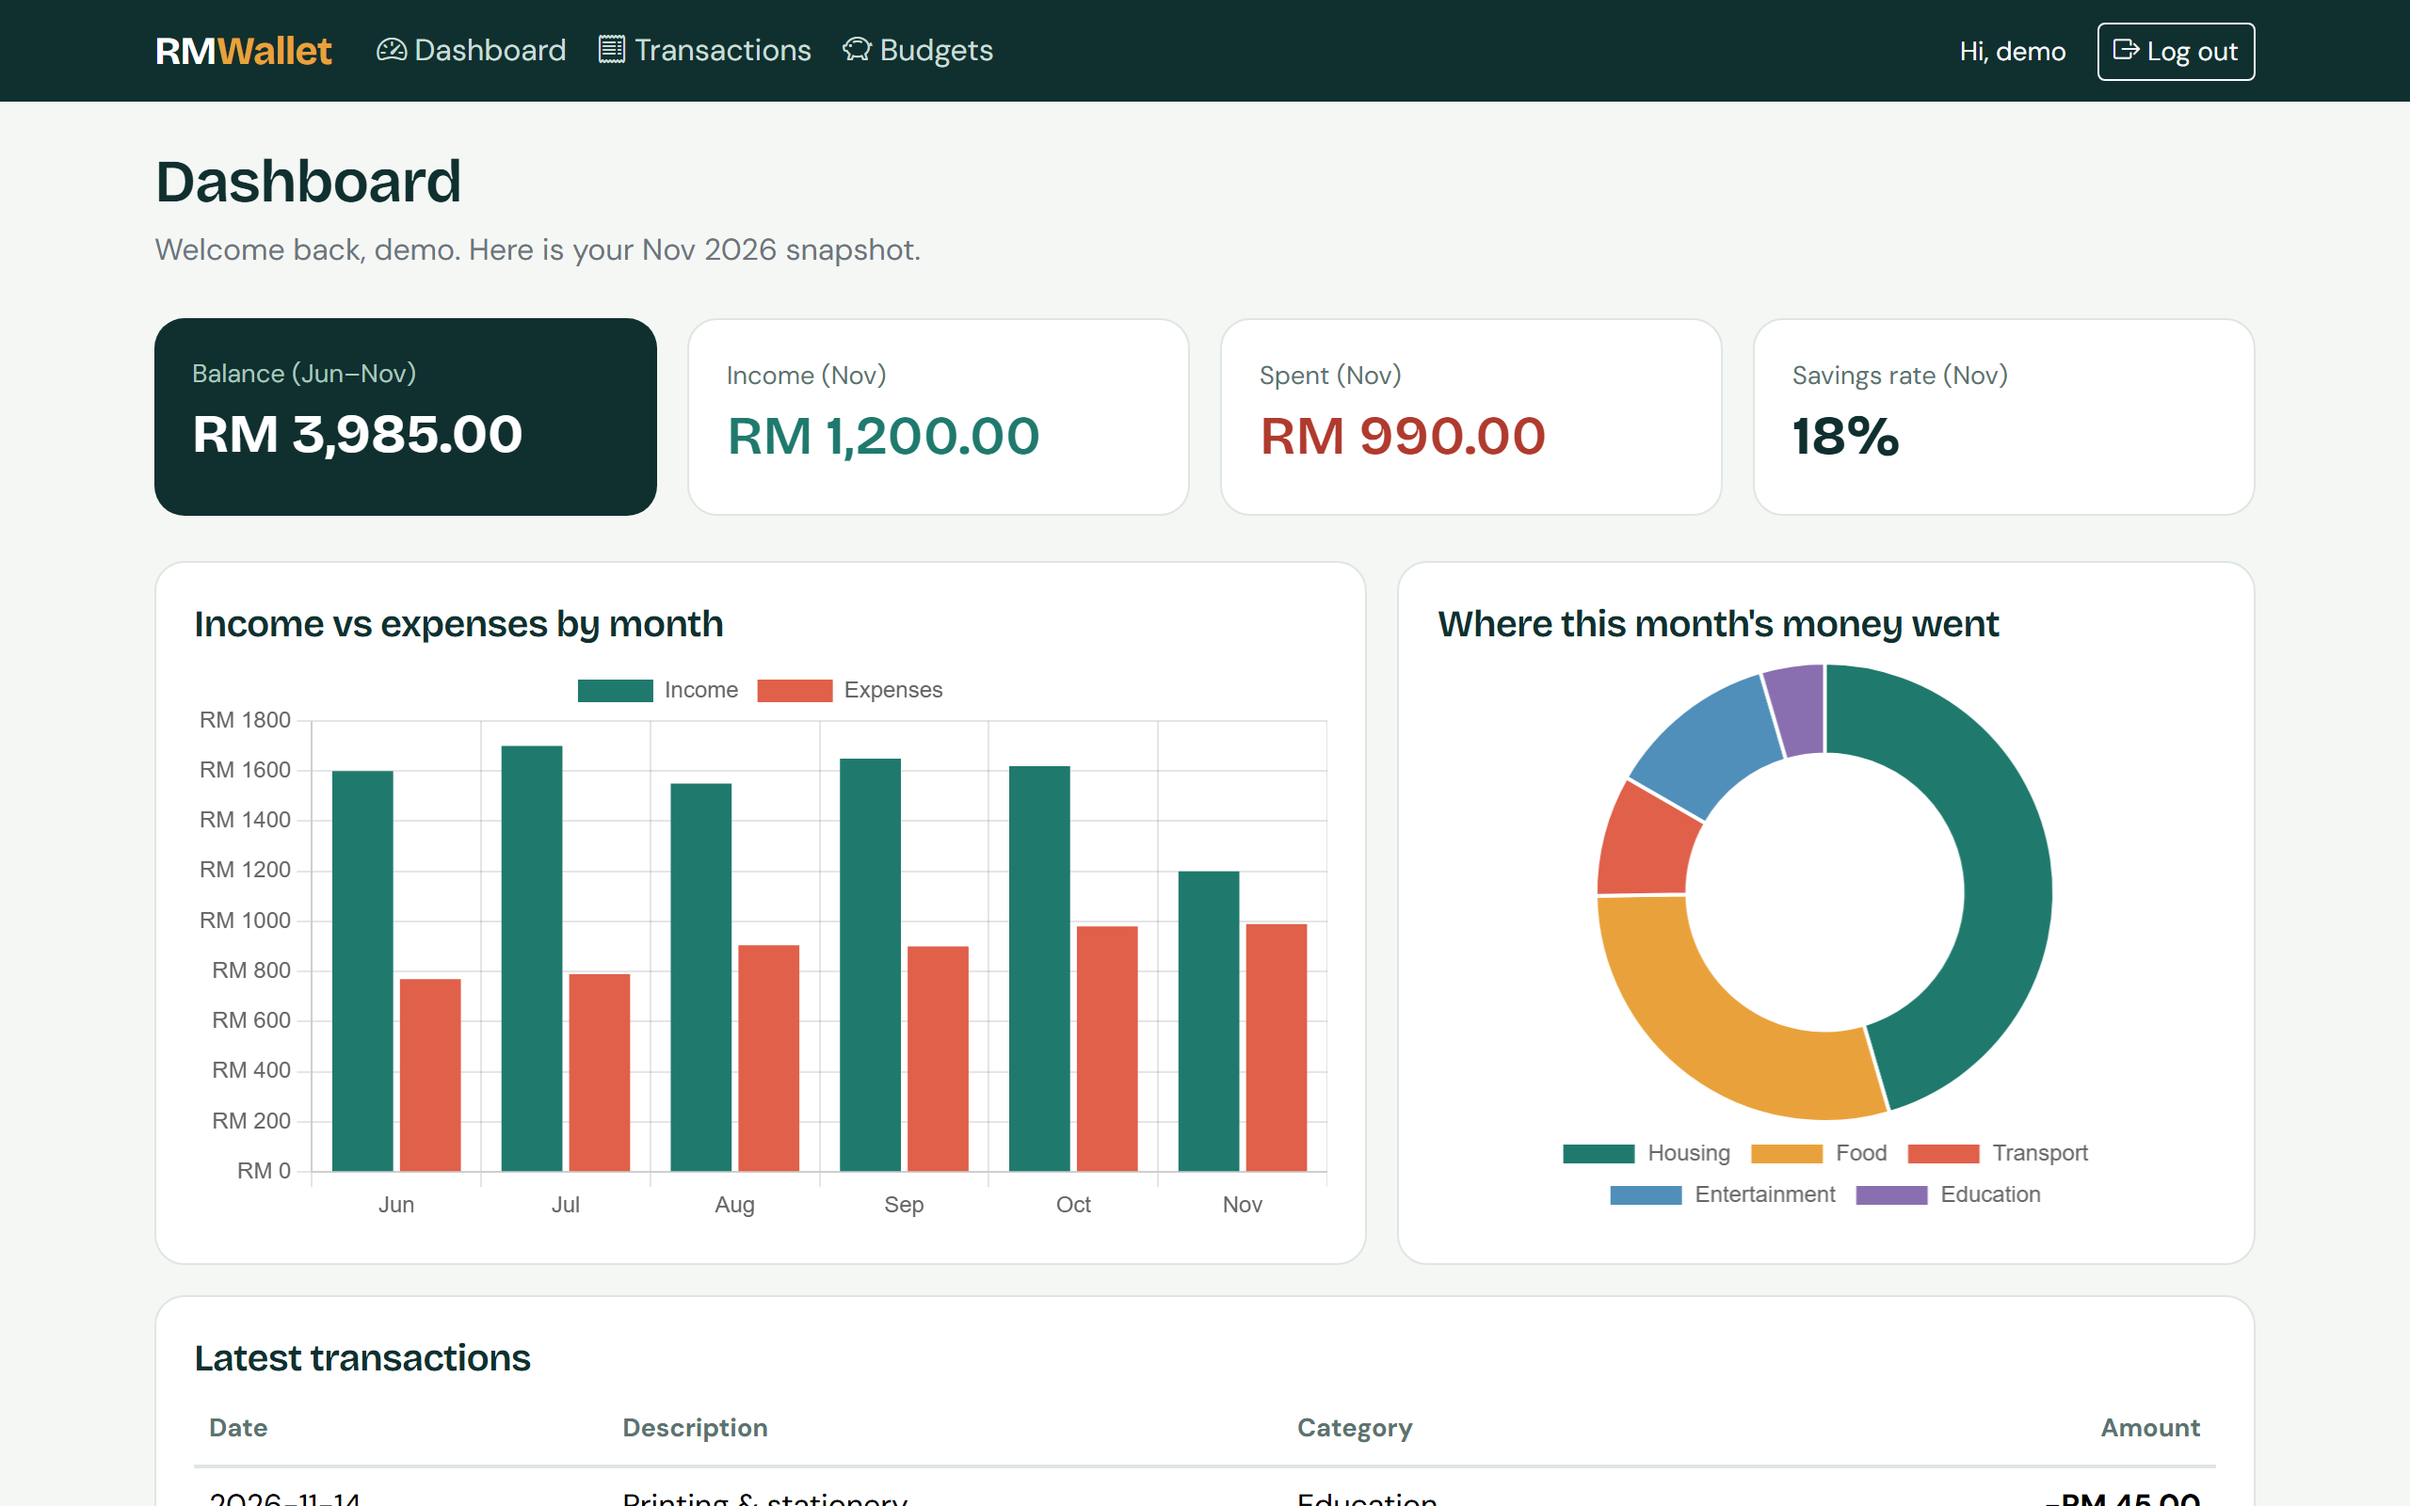
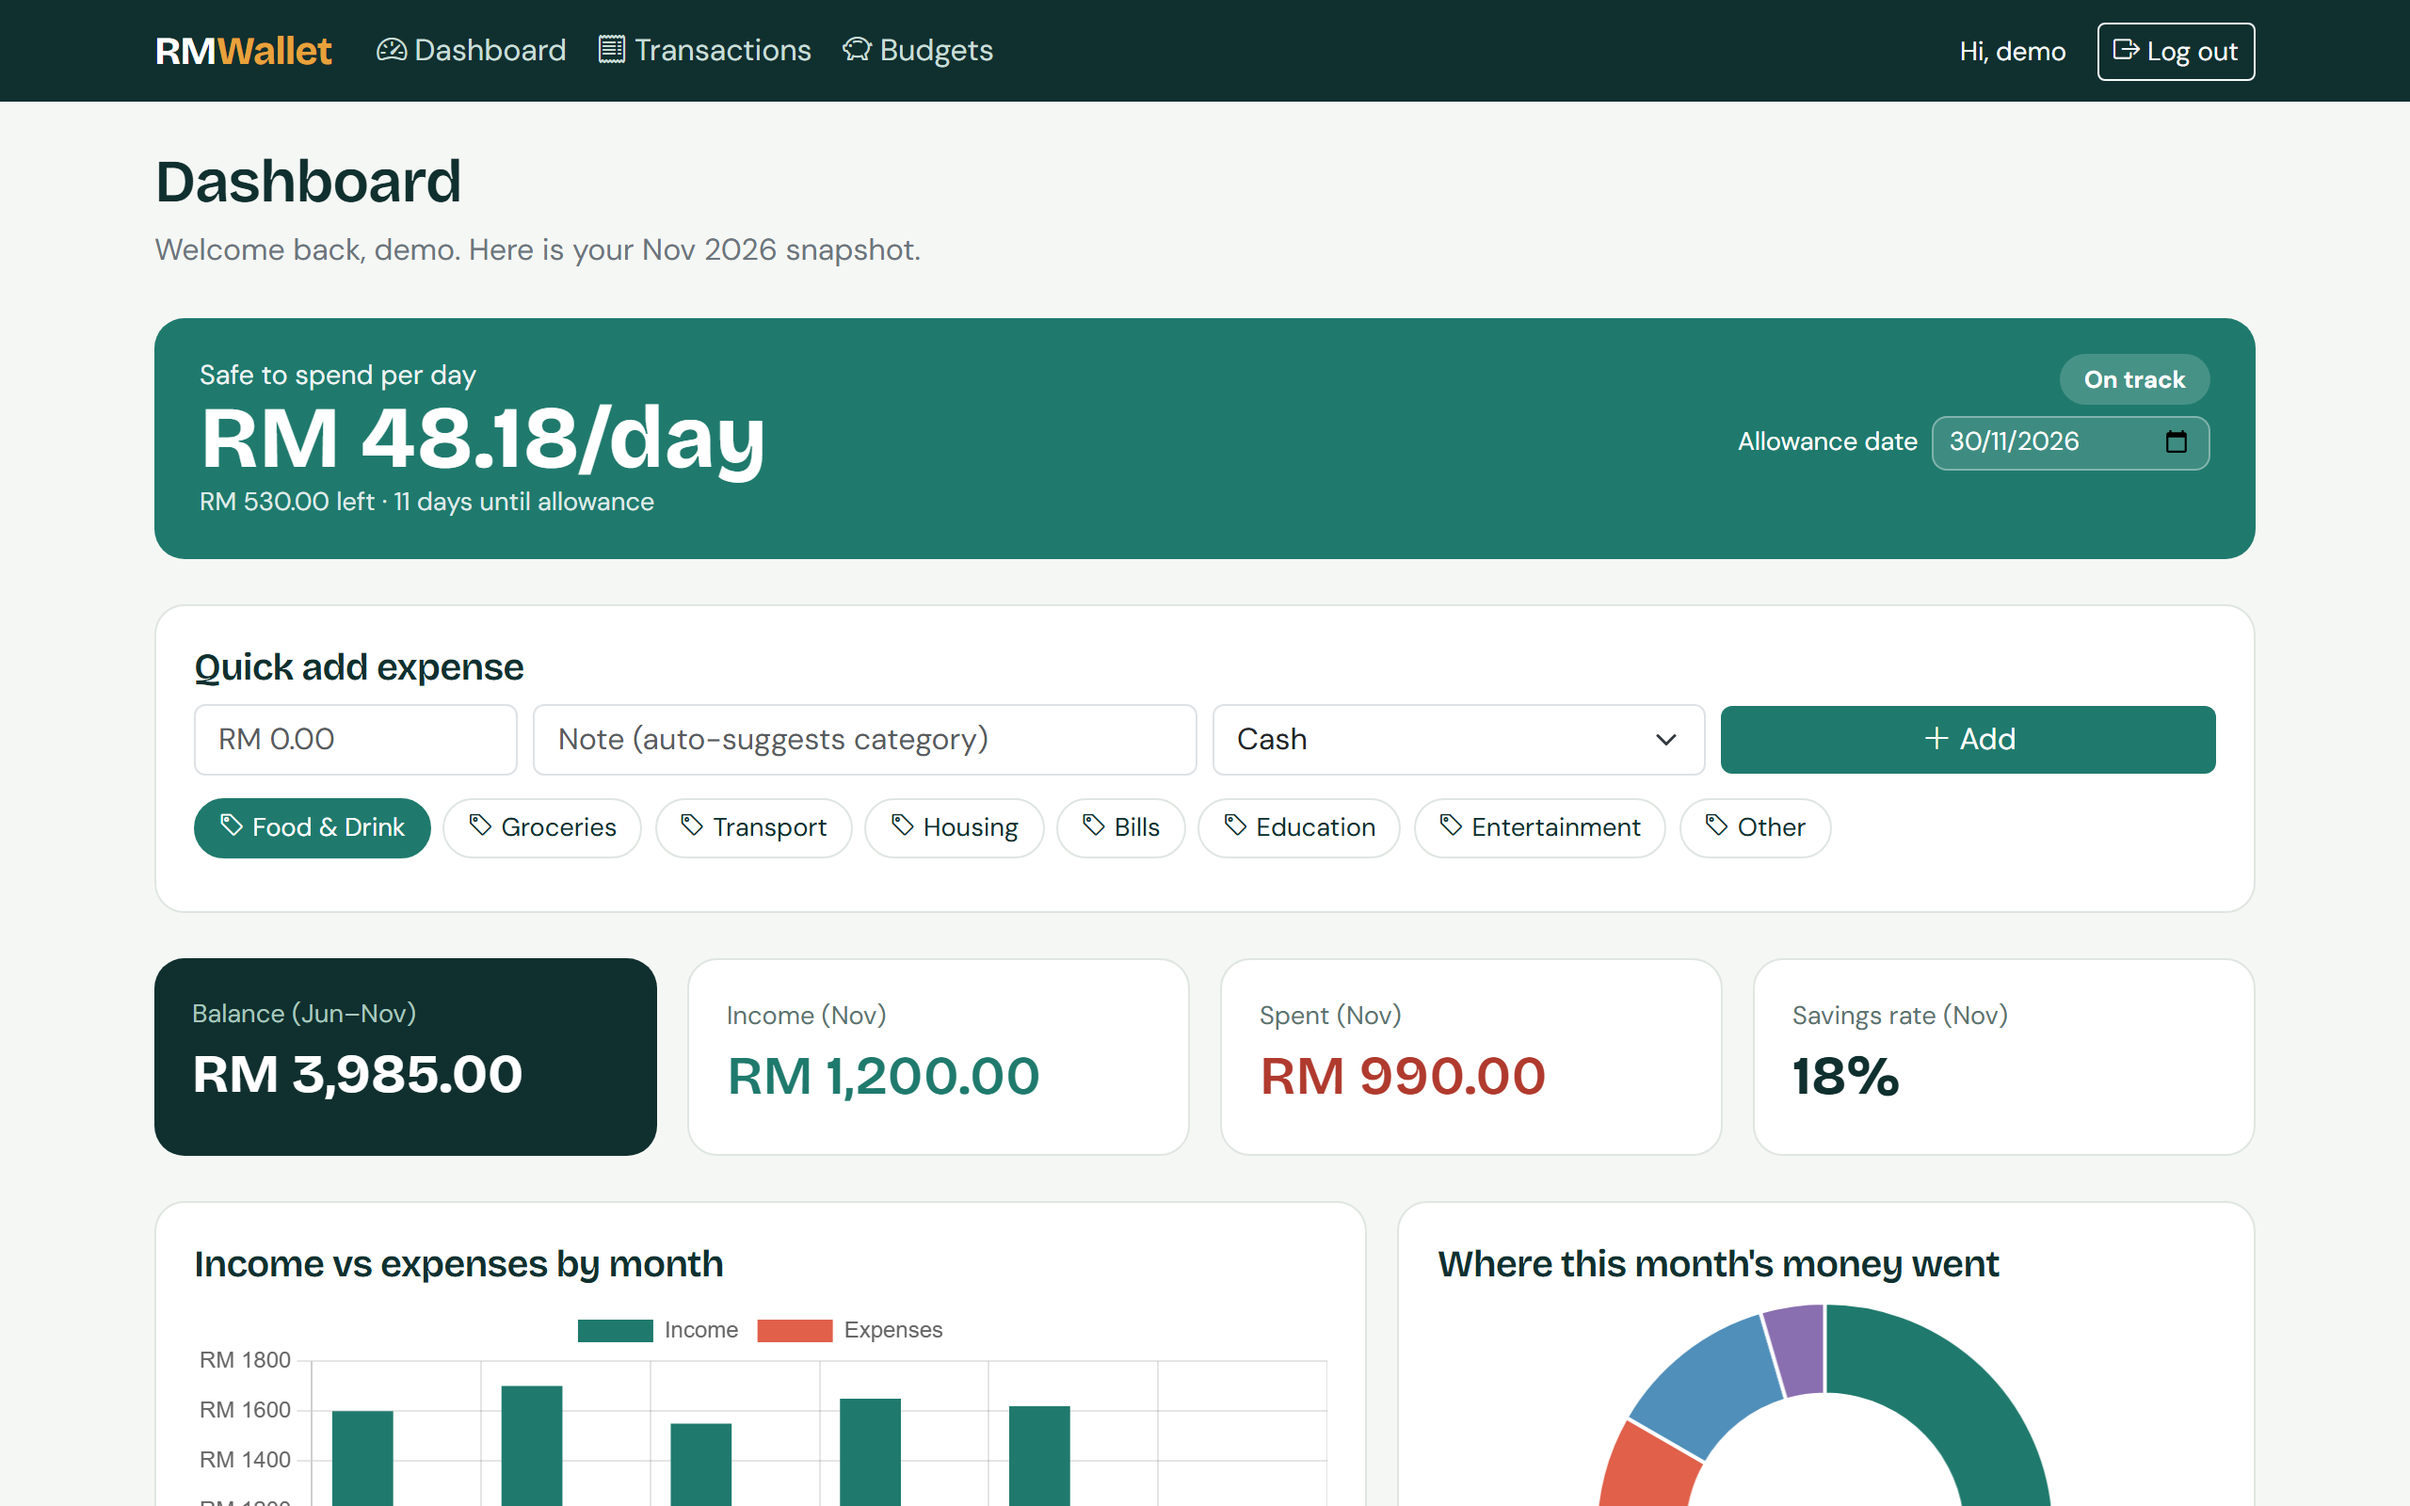
docs: update README, changelog and screenshots for v0.2.0

diff --git a/README.md b/README.md
@@ -14,7 +14,7 @@ A student's money is a small number of ringgit moving between a handful of bucke
 
 - ⚡ **Zero dependencies, zero build.** It's plain HTML, CSS and ES modules. Nothing to install or compile.
 - 📊 **Charts that mean something.** Income vs expenses by month, spending by category, budget vs actual.
-- 💸 **Budgets that warn you.** Progress bars go amber at 80% and red past 100%.
+- 💸 **Budgets that warn you.** Colour-coded guardrails: green under 70%, amber 70–89%, red 90%+.
 - 🔒 **Hardened by default.** Content-Security-Policy, Subresource Integrity, and XSS-safe rendering.
 - 🧪 **Actually tested.** A unit-test suite and static-integrity checks that run in CI.
 
@@ -29,7 +29,7 @@ bun start
 # 2. Open the printed URL in your browser
 #    http://localhost:8080
 
-# 3. Click "Use demo account", then "Sign in"
+# 3. Click "Try Demo Instantly"
 ```
 
 That's it — you're looking at the dashboard in under a minute.
@@ -46,12 +46,16 @@ You can also register a new account — it's stored in your browser's `localStor
 
 ## Features
 
-- **Login / register** with a demo account, validation, and a one-click "Use demo account" shortcut.
-- **Dashboard** — balance, latest-month income/spend/savings rate, income-vs-expense bar chart, spending doughnut, and the five most recent transactions.
-- **Transactions** — search and filter by type and category, newest first.
-- **Budgets** — per-category progress cards, a budget-vs-actual chart, and a table showing what's left (or how far over you are).
-- **Responsive & accessible** — works on mobile, with `aria-live` status, labelled charts, `scope` on table headers, and WCAG-AA colour contrast.
-- **Security basics** — CSP, SRI-pinned CDN assets, HTML output escaping (stored-XSS fix), no inline scripts, and a traversal-guarded dev server.
+- **One-click demo** — "Try Demo Instantly" signs you in with sample data kept only in your browser.
+- **Safe-to-spend hero** — remaining monthly budget divided by days until your allowance date, colour-coded green/amber/red with a customisable reset date.
+- **Quick-add expense bar** — amount, note and payment source with one-tap category chips and keyword auto-suggestion.
+- **Multi-wallet** — tag every transaction by payment source (Cash, Bank/MAE, E-Wallet/TnG) and filter by it.
+- **Tabung (savings goals)** — visual savings jars with progress fills and top-ups.
+- **Budget guardrails** — colour-coded progress bars: green <70%, amber 70–89%, red 90%+.
+- **Backup & portability** — export/import your data as JSON or CSV.
+- **Installable (PWA)** — add RM Wallet to your home screen with a manifest, icons and an offline service worker.
+- **Responsive & accessible** — mobile-first, with `aria-live` status, labelled charts and WCAG-AA contrast.
+- **Security basics** — CSP, SRI-pinned CDN assets, HTML output escaping, and a traversal-guarded dev server.
 
 ## Commands
 
@@ -76,8 +80,13 @@ Or via `make`: `make start`, `make test`, `make check`.
 ├── js/
 │   ├── core.js           pure domain logic (unit-tested, DOM-free)
 │   ├── data.js           sample data (Jun–Nov 2026)
+│   ├── store.js          localStorage persistence layer
 │   ├── app.js            auth guard + navbar/footer shell
+│   ├── pwa.js            service-worker registration
 │   └── *.js              one module per page
+├── assets/               favicon + PWA icons
+├── manifest.json         PWA manifest
+├── sw.js                 offline service worker
 ├── test/                 bun test suites
 ├── scripts/              check.mjs, screenshot.mjs
 ├── docs/                 architecture, ADRs, roadmap, screenshots
@@ -138,7 +147,7 @@ Data flows one way: static sample data (`js/data.js`) → pure functions (`js/co
 
 ## Testing & CI
 
-- **Unit tests** (`bun test`) cover the currency formatter, totals, month helpers, budget math, filtering, savings rate and HTML escaping.
+- **Unit tests** (`bun test`) cover the currency formatter, totals, month/budget math, filtering, savings rate, safe-to-spend, guardrail tiers, keyword suggestion, CSV round-trips and HTML escaping.
 - **Integrity checks** (`bun run check`) verify that every local asset resolves, no inline scripts remain, all CDN assets carry SRI, and the core modules stay DOM-free.
 - **GitHub Actions** runs both on every push and pull request; **Dependabot** keeps Actions and the dev dependency current.
 
@@ -150,7 +159,7 @@ Data flows one way: static sample data (`js/data.js`) → pure functions (`js/co
 
 ## Roadmap
 
-See [docs/roadmap.md](docs/roadmap.md) — short term: transactions CRUD with `localStorage` persistence and CSV export; medium term: a real backend with authentication; long term: PWA/offline support.
+See [docs/roadmap.md](docs/roadmap.md) — next up: edit/delete transactions and editable budget limits; then a real backend with authentication.
 
 ## Contributing & license
 

diff --git a/CHANGELOG.md b/CHANGELOG.md
@@ -7,6 +7,24 @@ and this project adheres to [Semantic Versioning](https://semver.org/spec/v2.0.0
 
 ## [Unreleased]
 
+## [0.2.0] - 2026-11-19
+
+### Added
+
+- One-click "Try Demo Instantly" login.
+- Daily safe-to-spend hero card with a customisable allowance date.
+- Quick-add expense bar with preset category chips and keyword auto-suggestion.
+- Multi-wallet payment sources (Cash, Bank/MAE, E-Wallet/TnG).
+- Tabung savings goals with visual jars.
+- Budget guardrails (green <70%, amber 70-89%, red 90%+).
+- JSON and CSV export/import for backup.
+- PWA manifest, icons and offline service worker.
+
+### Changed
+
+- Expanded category taxonomy (Food & Drink, Groceries, Bills, Other) and added payment sources to sample data.
+- Budgets and transactions now read through a localStorage persistence layer (`js/store.js`).
+
 ## [0.1.0] - 2026-11-16
 
 ### Added
